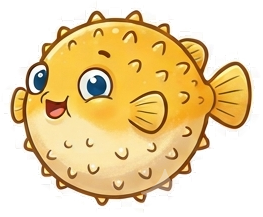
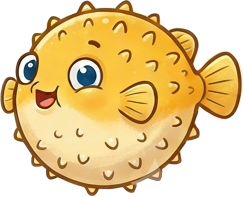
Add files via upload

diff --git a/monitor.html b/monitor.html
@@ -129,16 +129,16 @@ const Fish = (() => {
   const c = document.getElementById('bg'), x = c.getContext('2d'); let W, H; const F = [], B = []; const seen = new Set();
   // 종류별 설정: 이미지, 가로세로비, 번호 위치(비율), 원래 바라보는 방향, 움직임, 활동 수심(화면 비율), 크기
   const SP = {
-    clown:    { src: 'clown.png',    ar: 226 / 293, belly: { x: .5, y: .72 },  faces: 1,  mode: 'swim',  zone: [.08, .85], w: [110, 150], p: 15, name: '물고기' },
-    blue:     { src: 'blue.png',     ar: 209 / 258, belly: { x: .5, y: .72 },  faces: 1,  mode: 'swim',  zone: [.08, .85], w: [105, 145], p: 15, name: '파랑물고기' },
-    turtle:   { src: 'turtle.png',   ar: 261 / 297, belly: { x: .4, y: .5 },   faces: 1,  mode: 'swim',  zone: [.1, .8],   w: [130, 170], p: 11, name: '바다거북' },
-    ray:      { src: 'ray.png',      ar: 322 / 325, belly: { x: .46, y: .52 }, faces: 1,  mode: 'swim',  zone: [.15, .8],  w: [150, 200], p: 9,  name: '가오리', slow: .6 },
-    jelly:    { src: 'jelly.png',    ar: 326 / 206, belly: { x: .5, y: .5 },   faces: 0,  mode: 'drift', zone: [.06, .5],  w: [80, 110],  p: 10, name: '해파리' },
-    seahorse: { src: 'seahorse.png', ar: 302 / 165, belly: { x: .52, y: .5 },  faces: -1, mode: 'hover', zone: [.55, .82], w: [65, 90],   p: 9,  name: '해마' },
-    octopus:  { src: 'octopus.png',  ar: 284 / 254, belly: { x: .5, y: .22 },  faces: 0,  mode: 'walk',  zone: [1, 1],     w: [120, 150], p: 8,  name: '문어' },
-    crab:     { src: 'crab.png',     ar: 242 / 294, belly: { x: .5, y: .68 },  faces: 0,  mode: 'walk',  zone: [1, 1],     w: [110, 140], p: 8,  name: '꽃게' },
-    star:     { src: 'star.png',     ar: 249 / 256, belly: { x: .5, y: .7 },   faces: 0,  mode: 'walk',  zone: [1, 1],     w: [90, 120],  p: 7,  name: '불가사리', slow: .3 },
-    puffer:   { src: 'puffer.png',   ar: 217 / 263, belly: { x: .5, y: .72 },  faces: -1, mode: 'swim',  zone: [.1, .8],   w: [100, 130], p: 8,  name: '복어', slow: .5, puff: true },
+    clown:    { src: 'clown.png',    ar: 206 / 273, belly: { x: .5, y: .72 },  faces: 1,  mode: 'swim',  zone: [.08, .85], w: [110, 150], p: 15, name: '물고기' },
+    blue:     { src: 'blue.png',     ar: 189 / 238, belly: { x: .5, y: .72 },  faces: 1,  mode: 'swim',  zone: [.08, .85], w: [105, 145], p: 15, name: '파랑물고기' },
+    turtle:   { src: 'turtle.png',   ar: 241 / 277, belly: { x: .4, y: .5 },   faces: 1,  mode: 'swim',  zone: [.1, .8],   w: [130, 170], p: 11, name: '바다거북' },
+    ray:      { src: 'ray.png',      ar: 302 / 305, belly: { x: .46, y: .52 }, faces: 1,  mode: 'swim',  zone: [.15, .8],  w: [150, 200], p: 9,  name: '가오리', slow: .6 },
+    jelly:    { src: 'jelly.png',    ar: 306 / 186, belly: { x: .5, y: .5 },   faces: 0,  mode: 'drift', zone: [.06, .5],  w: [80, 110],  p: 10, name: '해파리' },
+    seahorse: { src: 'seahorse.png', ar: 282 / 145, belly: { x: .52, y: .5 },  faces: -1, mode: 'hover', zone: [.55, .82], w: [65, 90],   p: 9,  name: '해마' },
+    octopus:  { src: 'octopus.png',  ar: 264 / 234, belly: { x: .5, y: .22 },  faces: 0,  mode: 'walk',  zone: [1, 1],     w: [120, 150], p: 8,  name: '문어' },
+    crab:     { src: 'crab.png',     ar: 222 / 274, belly: { x: .5, y: .68 },  faces: 0,  mode: 'walk',  zone: [1, 1],     w: [110, 140], p: 8,  name: '꽃게' },
+    star:     { src: 'star.png',     ar: 229 / 236, belly: { x: .5, y: .7 },   faces: 0,  mode: 'walk',  zone: [1, 1],     w: [90, 120],  p: 7,  name: '불가사리', slow: .3 },
+    puffer:   { src: 'puffer.png',   ar: 197 / 243, belly: { x: .5, y: .72 },  faces: -1, mode: 'swim',  zone: [.1, .8],   w: [100, 130], p: 8,  name: '복어', slow: .5, puff: true },
   };
   const HUES = [0, -22, 22];                                                                 // 색 변형 3종, 미리 렌더링해서 재사용
   for (const k in SP) { const s = SP[k]; s.img = new Image(); s.img.src = s.src; s.v = [];
